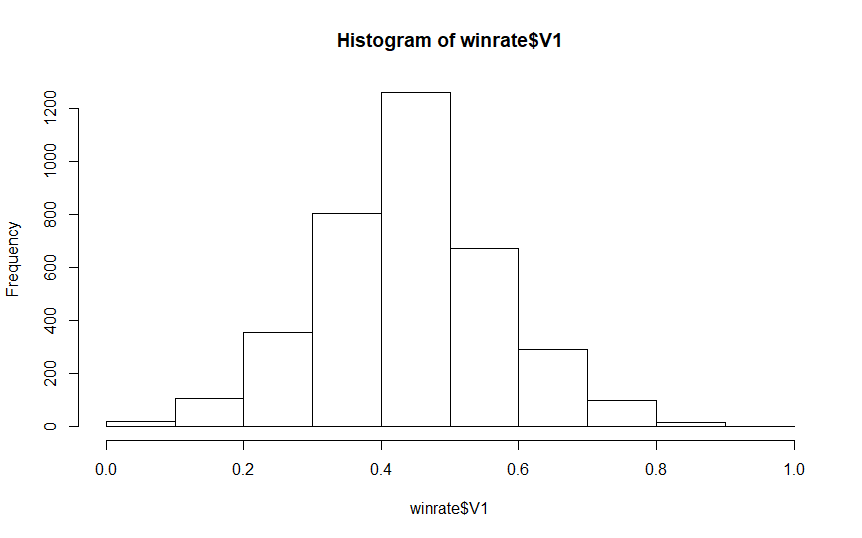
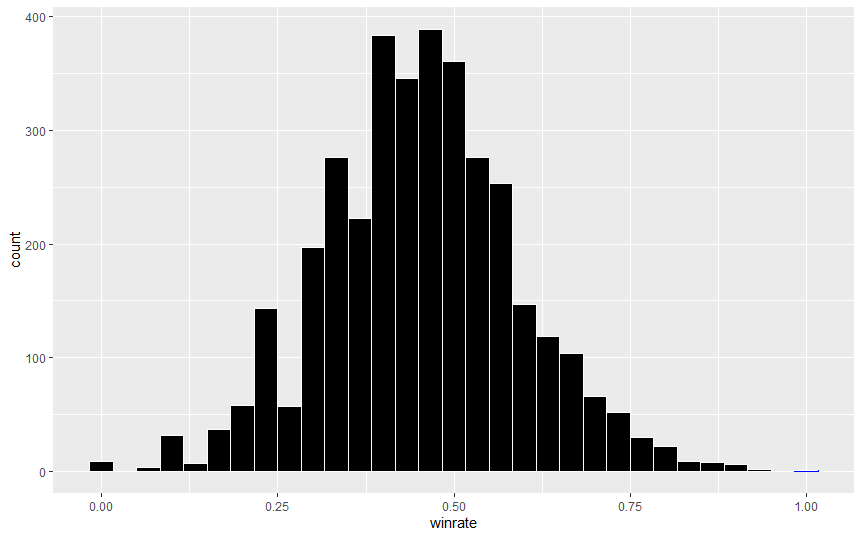
change images and add more indexes

diff --git a/class/csci489/blog/index.md b/class/csci489/blog/index.md
@@ -150,20 +150,44 @@ Once again, not all teams were able to score the scale in a match.
 Out of these teams, it happened nine times.
 Twice for 558, twice for 3933, and five times for 6372.
 
+## Ownership Ratios
+
+Each of these charts shows a ratio of the time that a team owned a switch or scale
+to the total amount of time that they played.
+For an alliance, the near switch is easiest to capture, the scale next, then the opposing switch.
+
 ### [WIP] Switch Ownership Ratio
 
 ![Switch Ownership Ratio](/assets/image/csci489/ratio-near.png)
 *data from [thebluealliance](https://thebluealliance.com/apidocs/v3)*
+
+254 performed the best out of this set of teams,
+having control of their own switch 92% of the time they were on the field.
+Based on how early they were able to claim their switch,
+it makes sense that they have ownership of it for so much of their time.
+When teams controlled their switch for a greater portion of their time playing, they performed better.
 
 ### [WIP] Scale Ownership Ratio
 
 ![Scale Ownership Ratio](/assets/image/csci489/ratio-scale.png)
 *data from [thebluealliance](https://thebluealliance.com/apidocs/v3)*
 
+???
+
+254 gained ownership during auto a lot, many times with two cubes.
+
 ### [WIP] Opposing Switch Ownership Ratio
 
 ![Opposing Switch Ownership Ratio](/assets/image/csci489/ratio-far.png)
 *data from [thebluealliance](https://thebluealliance.com/apidocs/v3)*
+
+The opposing switch was usually a lofty goal for an alliance.
+It doesn't give them points, it only makes it so the other alliance doesn't get points.
+However, claiming the opposing switch was usually easier than the scale,
+making it a good distraction tactic for while trying to claim or defend the scale.
+Teams that were better tended to claim the opposing switch.
+254 managed to take ownership of the opposing switch for a third of the time they were in a match,
+in contrast to 6372, where the opposing alliance owned their switch more often than 254 owned theirs.
 
 ## Citation
 

diff --git a/index.md b/index.md
@@ -15,3 +15,8 @@ This guy is Taylor Horne.
 Here's some projects that I've done before.
 
 [projects](/projects)
+
+# Classes
+Here's some classes I am taking/have taken.
+
+[classes](class)

diff --git a/class/index.md b/class/index.md
@@ -1,0 +1,7 @@
+---
+layout: default
+---
+
+# Classes that I've made a website for:
+
+ * [CSCI 48900](csci489)

diff --git a/class/csci489/index.md b/class/csci489/index.md
@@ -1,0 +1,7 @@
+---
+layout: default
+---
+
+# The blog project
+
+ * [FRC 254's Unbeatable Year](blog)
